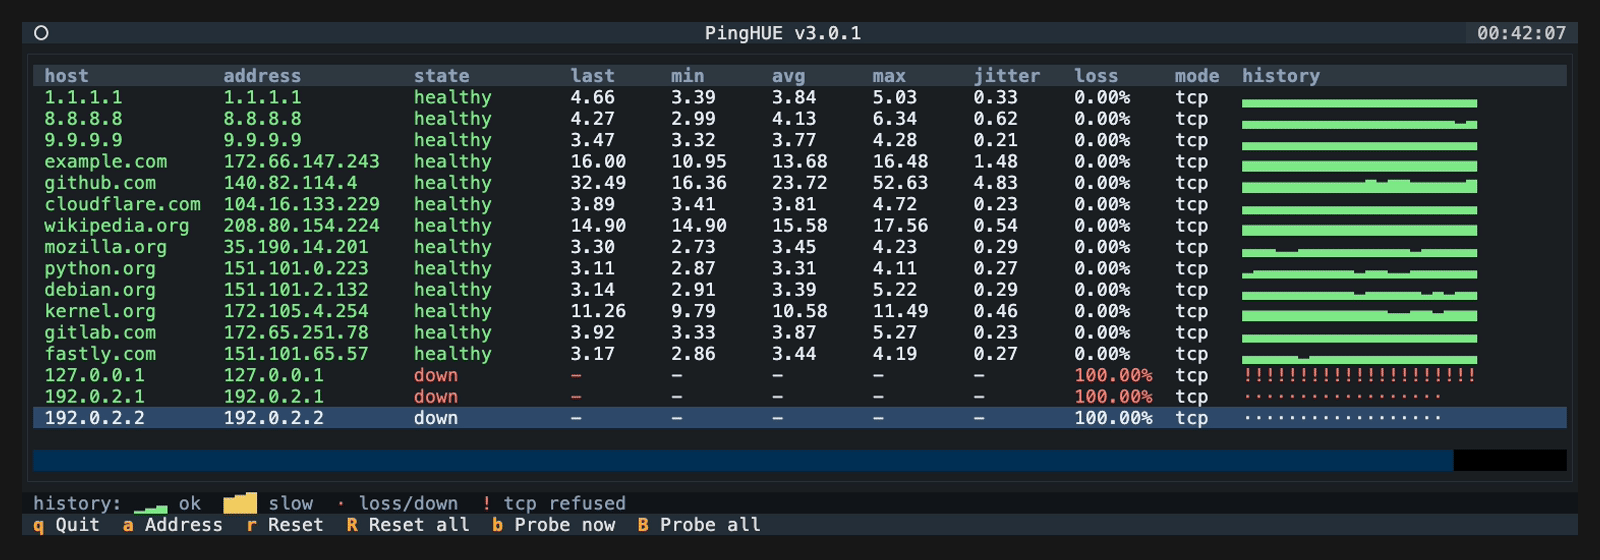
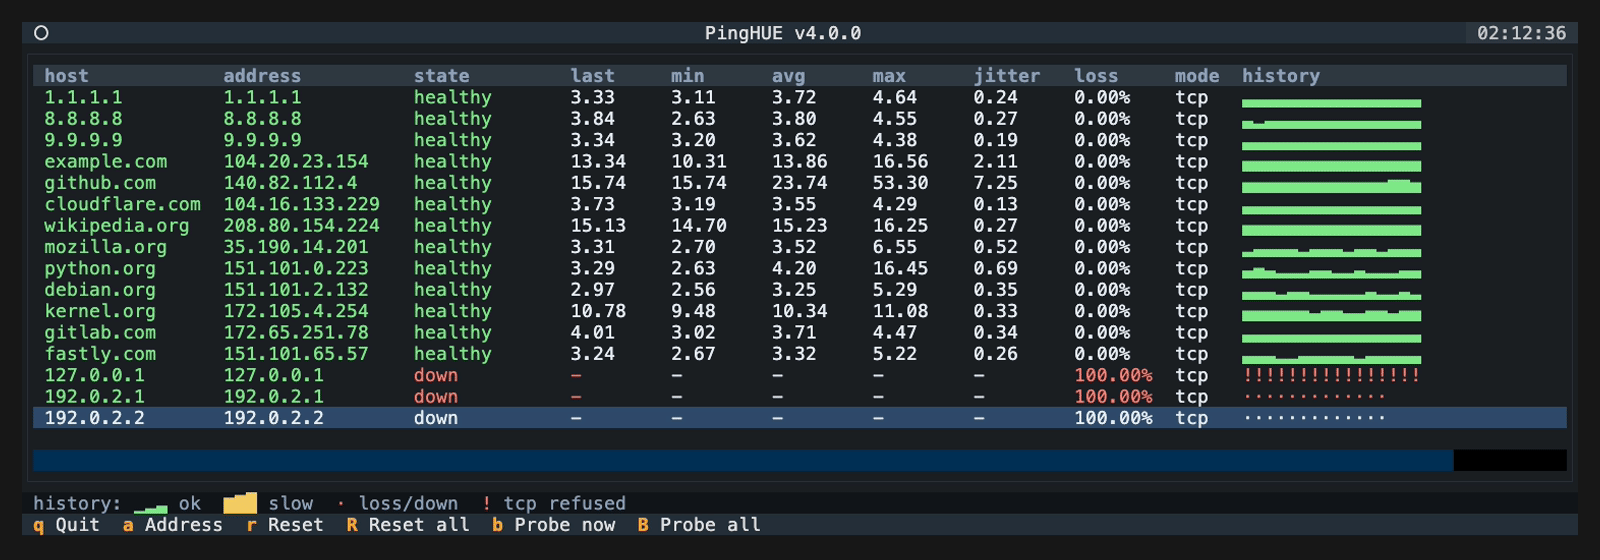
Release PingHue 4.0.0
Prepare PingHue 4.0.0 release metadata, docs, assets, package examples, and Homebrew formula.

diff --git a/docs/index.html b/docs/index.html
@@ -167,7 +167,7 @@
       <pre class="json"><code><span class="prompt">$</span> pinghue -f hosts.txt --duration 180 --output maintenance.json
 <span class="jk">{</span>
   <span class="jq">"schema_version"</span>: <span class="jn">1</span>,
-  <span class="jq">"pinghue_version"</span>: <span class="js">"3.0.1"</span>,
+  <span class="jq">"pinghue_version"</span>: <span class="js">"4.0.0"</span>,
   <span class="jq">"run"</span>: { <span class="jq">"host"</span>: <span class="js">"local"</span>, <span class="jq">"exit_reason"</span>: <span class="js">"duration"</span>, <span class="jc">…</span> },
   <span class="jq">"targets"</span>: [
     { <span class="jq">"target"</span>: <span class="js">"db-primary"</span>, <span class="jq">"state"</span>: <span class="js c-amber">"intermittent"</span>,

diff --git a/packaging/homebrew/pinghue.rb b/packaging/homebrew/pinghue.rb
@@ -10,8 +10,8 @@ class Pinghue < Formula
 
   desc "Colored, concurrent ICMP/TCP ping monitor for the terminal"
   homepage "https://github.com/inxbit/pinghue"
-  url "https://files.pythonhosted.org/packages/29/15/6cbe22143fe95fc940a8b9a0eb590b523efcfeefb6d1ef01fabf635880ea/pinghue-3.0.1.tar.gz"
[1 lines of base64/hex data omitted]
+  url "https://files.pythonhosted.org/packages/source/p/pinghue/pinghue-4.0.0.tar.gz"
[1 lines of base64/hex data omitted]
   license "MIT"
   head "https://github.com/inxbit/pinghue.git", branch: "main"
 

diff --git a/tests/test_repository_hardening.py b/tests/test_repository_hardening.py
@@ -341,8 +341,10 @@ def test_release_text_surfaces_do_not_reference_stale_current_version() -> None:
 
 
 def test_security_policy_matches_stable_support_line() -> None:
+    major = package_version().split(".", 1)[0]
     security = read("SECURITY.md")
+    supported_major_lines = re.findall(r"`(\d+)\.x`\s+\|\s+Yes", security)
 
-    assert "`3.x` | Yes" in security
-    assert "`2.x` | Yes" not in security
-    assert "`1.x` | Yes" not in security
+    assert f"`{major}.x` | Yes" in security
+    assert f"`<{major}.0` | No" in security
+    assert supported_major_lines == [major]

diff --git a/README.md b/README.md
@@ -22,7 +22,7 @@
 
 `pinghue` is a colored, concurrent ICMP/TCP ping monitor for maintenance windows. It gives operators a dense terminal view for many hosts at once and can also write structured JSON for reports, cron jobs, and CI checks.
 
-Current version: `3.0.1`. The command-line interface and JSON output are stable public interfaces. JSON output uses `schema_version: 1`; breaking JSON changes require a new schema version.
+Current version: `4.0.0`. The command-line interface and JSON output are stable public interfaces. JSON output uses `schema_version: 1`; breaking JSON changes require a new schema version.
 
 <p align="center">
   <img src="https://raw.githubusercontent.com/inxbit/pinghue/main/docs/assets/pinghue-demo.gif" alt="real pinghue terminal recording: healthy hosts with green history bars, a TCP-refused host with amber markers, and unreachable hosts down in red" width="920">
@@ -130,9 +130,9 @@ internal-db.corp
 
 ## Supported Platforms
 
-The 3.0 support contract is macOS and Linux on Python 3.10 through 3.13. CI runs on both macOS and Linux for every supported Python version.
+The supported platform contract is macOS and Linux on Python 3.10 through 3.13. CI runs on both macOS and Linux for every supported Python version.
 
-The TUI assumes an ANSI-capable terminal with Unicode glyph support. Windows and other POSIX platforms are outside the declared 3.0 support scope unless explicitly added later.
+The TUI assumes an ANSI-capable terminal with Unicode glyph support. Windows and other POSIX platforms are outside the declared support scope unless explicitly added later.
 
 ## Stability Policy
 

diff --git a/security-best-practices-report.md b/security-best-practices-report.md
@@ -89,13 +89,13 @@ Previously relevant medium-risk classes are now controlled:
 - Security diff scan of modified runtime, workflow, site, packaging, and hardening files: no issues identified.
 - `.venv/bin/ruff check .`: all checks passed.
 - `.venv/bin/mypy src`: no issues in 14 source files.
-- `.venv/bin/pytest --cov=pinghue --cov-report=term-missing --cov-fail-under=80`: 200 passed with 87.81% coverage, above the configured 80% floor.
+- `.venv/bin/pytest --cov=pinghue --cov-report=term-missing --cov-fail-under=80`: 202 passed with 87.81% coverage, above the configured 80% floor.
 - `node --test tests/site_pages.test.mjs`: site contract test passed.
 - `.venv/bin/pip-audit --skip-editable .`: no known vulnerabilities found.
-- `SOURCE_DATE_EPOCH=0 .venv/bin/python -m build --no-isolation`: built `pinghue-3.0.1.tar.gz` and `pinghue-3.0.1-py3-none-any.whl`.
+- `SOURCE_DATE_EPOCH=0 .venv/bin/python -m build --no-isolation`: built `pinghue-4.0.0.tar.gz` and `pinghue-4.0.0-py3-none-any.whl`.
 - `.venv/bin/twine check` on the built and published artifacts: wheel and sdist passed.
-- `.venv/bin/python -m pinghue --version`: `pinghue 3.0.1`.
-- `.venv/bin/pinghue --version`: `pinghue 3.0.1`.
+- `.venv/bin/python -m pinghue --version`: `pinghue 4.0.0`.
+- `.venv/bin/pinghue --version`: `pinghue 4.0.0`.
 - `ruby -c packaging/homebrew/pinghue.rb`: formula syntax passed.
 - `scripts/check-github-hardening.sh inxbit/pinghue`: hosted hardening checks passed.
 

diff --git a/CHANGELOG.md b/CHANGELOG.md
@@ -6,9 +6,11 @@ Starting with `1.0.0`, this project follows semantic versioning. CLI flags and J
 
 ## [Unreleased]
 
+## 4.0.0 - 2026-07-08
+
 ### Breaking
 
-- `--output -` now requires `--no-tui` and exits `2` (usage error) otherwise. The TUI owns stdout while it runs, so the combination could not produce machine-readable output; the `3.0.1` stderr warning for it is removed along with the behavior. Requires a major version bump.
+- `--output -` now requires `--no-tui` and exits `2` (usage error) otherwise. The TUI owns stdout while it runs, so the combination could not produce machine-readable output; the `3.0.1` stderr warning for it is removed along with the behavior.
 
 ## 3.0.1 - 2026-07-08
 

diff --git a/SECURITY.md b/SECURITY.md
@@ -6,8 +6,8 @@ Security fixes are provided for the latest stable release line.
 
 | Version | Supported |
 | --- | --- |
-| `3.x` | Yes |
-| `<3.0` | No |
+| `4.x` | Yes |
+| `<4.0` | No |
 
 ## Reporting a Vulnerability
 
